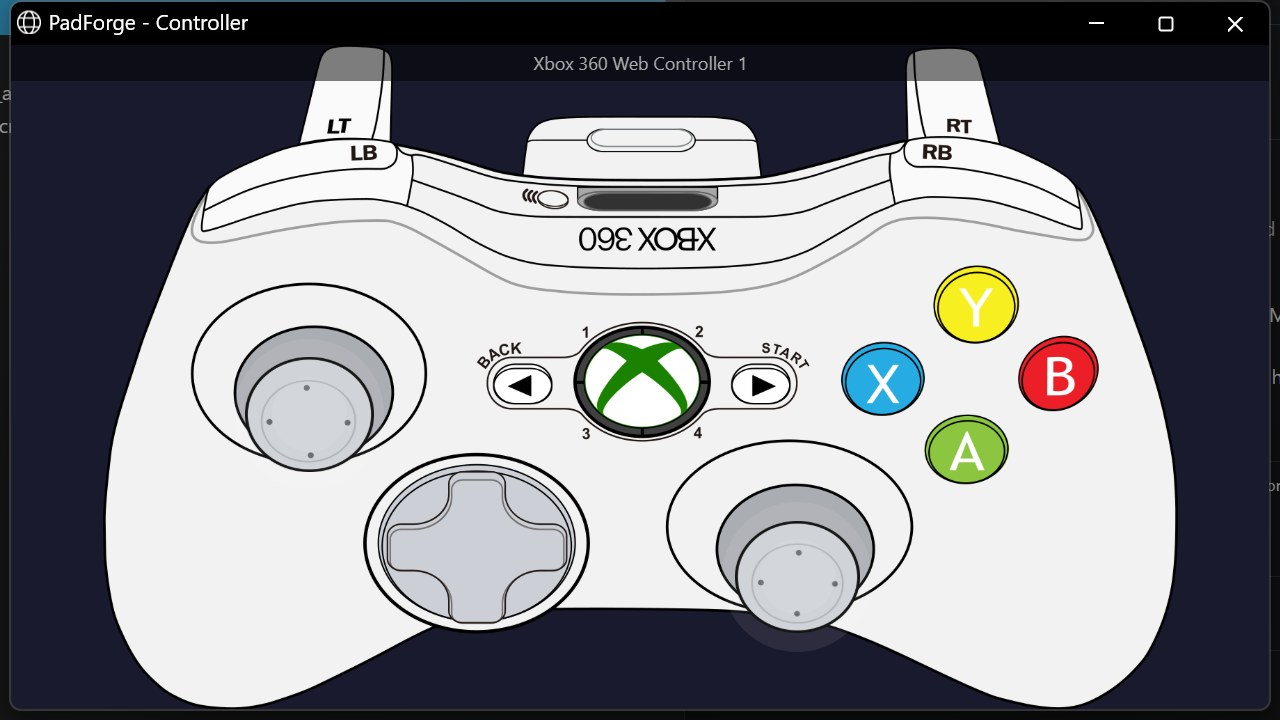
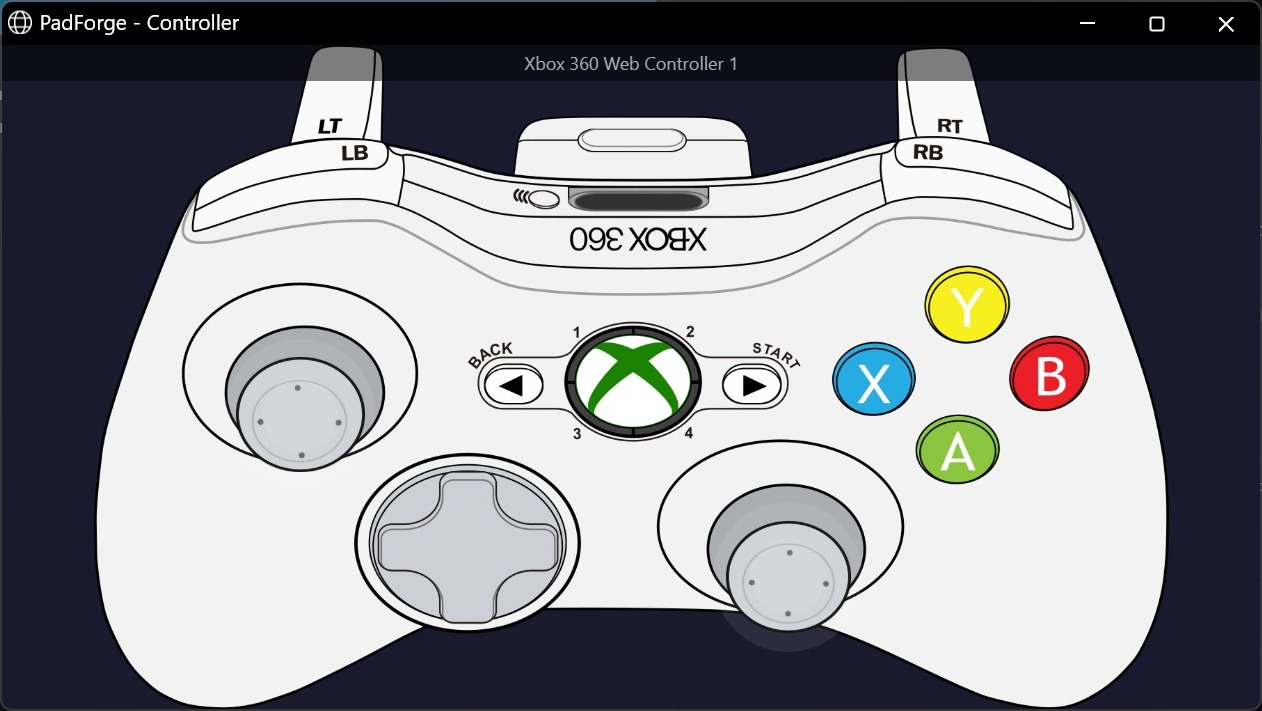
Site: exact window curvature, and stop clipping the wheel screen
The wheel screen was still being cut. shot-bleed was a framing box with
border-radius and overflow:hidden, so wrapping a rotated rig in it clipped
the machine against that box and sliced its corners off. It is a width
wrapper now. The rig frames itself.

The curvature was wrong everywhere because it was a fixed 14px. The
captures are at 200% scale, which is measurable rather than assumed: a
1 DIP hairline is exactly 2px in the source. That makes the window 1280
logical px wide, so Windows 11's 8 DIP corner is 16px of a 2560px image,
or 0.625% of the width. The rig now rounds at 0.625cqw against a
container-type on .rig, which holds that ratio at any displayed size,
and the gallery tiles take the same curvature on their top corners.
Verified by rendering one shot at 1280px and 640px and measuring the
rendered arc: 8px and 4px, exactly proportional. A fixed radius was too
round everywhere and worst on the tiles, which show the same window at
half size.

The two browser captures carried a strip of the PadForge window sitting
behind them, which read as a second window bleeding out of the first once
staged. Both are cropped to their own window border.

Full-page sweep at 1512px: nothing but the chapter bands touches an edge.

diff --git a/style.css b/style.css
@@ -438,7 +438,10 @@ a { color: inherit; text-decoration: none; }
 }
 .shot img { width: 100%; }
 /* Full-bleed variant: the image runs past the text column. */
-.shot-bleed { border-radius: var(--radius-lg); overflow: hidden; box-shadow: 0 44px 90px -30px rgba(0,0,0,0.9); border: 1px solid var(--border-soft); }
+/* A width wrapper, never a frame. It used to round, border and
+   overflow:hidden its contents, which clipped the rotated rig inside it
+   and cut the corners clean off the machine. The rig frames itself. */
+.shot-bleed { width: min(100% - 2rem, 1300px); margin-inline: auto; }
 
 /* Detail disclosure: every word of the old cards survives, one click away. */
 .details { margin-top: 2rem; border-top: 1px solid var(--hairline); }
@@ -481,7 +484,8 @@ a { color: inherit; text-decoration: none; }
    not angled: a grid of individually rotated screens reads as chaos. */
 .gal { display: grid; grid-template-columns: repeat(auto-fit, minmax(520px, 1fr)); gap: 1.6rem; }
 .gal figure {
-    position: relative; border-radius: var(--radius); overflow: hidden;
+    position: relative; container-type: inline-size;
+    border-radius: 0.625cqw 0.625cqw var(--radius) var(--radius); overflow: hidden;
     background: var(--panel); transition: box-shadow 0.5s var(--ease);
     box-shadow:
         0 0 0 1px rgba(255,255,255,0.08),
@@ -665,10 +669,11 @@ a { color: inherit; text-decoration: none; }
         radial-gradient(64% 54% at 50% 50%, rgba(242,101,42,0.06), transparent 72%);
 }
 
-.rig { position: relative; perspective: 2400px; perspective-origin: 50% 42%; }
+.rig { position: relative; perspective: 2400px; perspective-origin: 50% 42%;
+       container-type: inline-size; }
 .rig-in {
     position: relative; transform-style: preserve-3d;
-    border-radius: var(--radius); overflow: hidden;
+    border-radius: 0.625cqw; overflow: hidden;
     transform: rotateY(-13deg) rotateX(5deg);
     box-shadow:
         0 0 0 1px rgba(255,255,255,0.10),

diff --git a/DESIGN.md b/DESIGN.md
@@ -191,6 +191,22 @@ removed. Show the whole program screen. If it is too small to read, the
 layout is wrong, not the screenshot. Split moments bleed their media
 column past the container edge for exactly this reason.
 
+**Match the window's real curvature, and let it scale.** The captures are
+taken at 200% display scale, which is measurable rather than assumed: a
+1 DIP UI hairline is exactly 2px wide in the source. So the window is
+1280 logical px across, and Windows 11's 8 DIP corner is 16px of a
+2560px image, or 0.625% of the width. `.rig-in` therefore rounds at
+`0.625cqw` with `container-type: inline-size` on `.rig`, which holds that
+ratio at every displayed size. A fixed pixel radius cannot: the old 14px
+was too round everywhere and grotesquely too round on the gallery tiles,
+which display the same window at half the size. Verified by rendering the
+same shot at 1280px and 640px and measuring the rendered arc: 8px and
+4px.
+
+Note the captures themselves have SQUARE corners, because the harness
+grabs the window rect and the trim removes the invisible resize border.
+The curvature is ours to draw, which is exactly why it has to be right.
+
 **Trim the capture margin before staging anything.** The harness bakes an
 11px pure-black margin around each window on the left, right and top. It
 is invisible on a dark page right up until the screen is staged as an
@@ -199,6 +215,12 @@ the margin present that rim traces the edge of the BLACK BORDER rather
 than the edge of the window, and you get a rounded frame with a square
 window floating 11px inside it. `tools/trim_shots.py` measures and crops
 it, is idempotent, and must be run after every capture pass.
+
+**A capture must contain one window and nothing else.** The two browser
+shots included a strip of the PadForge window sitting behind them, which
+is invisible in a flat thumbnail and reads as a second window bleeding
+out of the first once staged. Crop a desktop capture to its own window
+border before it goes near a rig.
 
 **A machine is never cut to buy size.** An earlier version let the split
 moments bleed past the viewport edge to win pixels, which sliced the
@@ -356,5 +378,7 @@ Every item here has already happened once.
 - Do not put a chip over the UI it is describing.
 - Do not put a rig in a stage without bounded width.
 - Do not stage an untrimmed screenshot.
+- Do not round a window with a fixed pixel radius.
+- Do not stage a capture with another window visible in it.
 - Do not clip a window to make it bigger.
 - Do not anchor anything to the hero's bottom edge.
